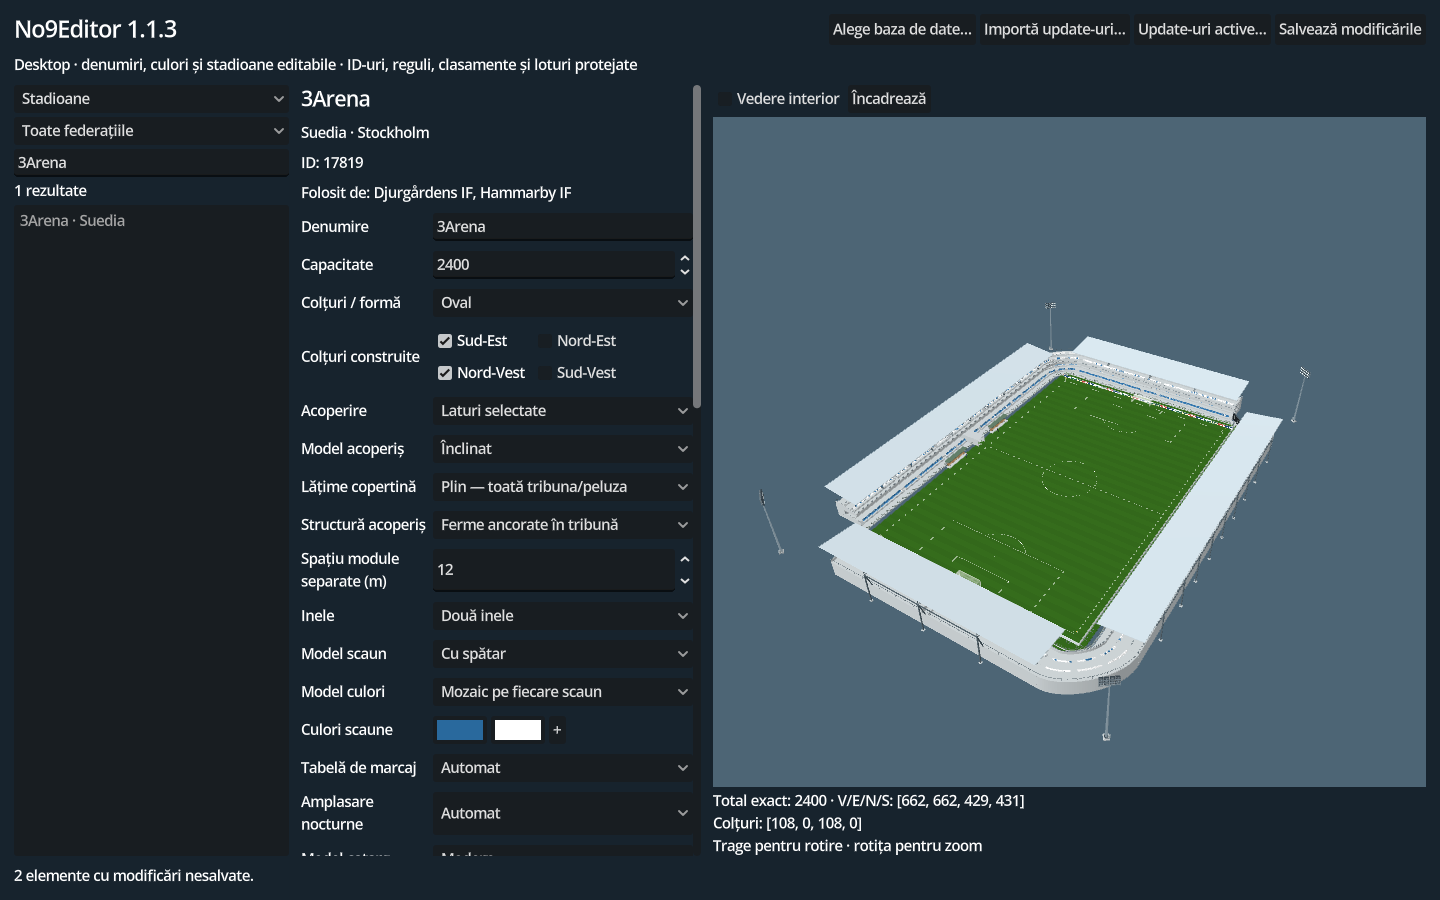
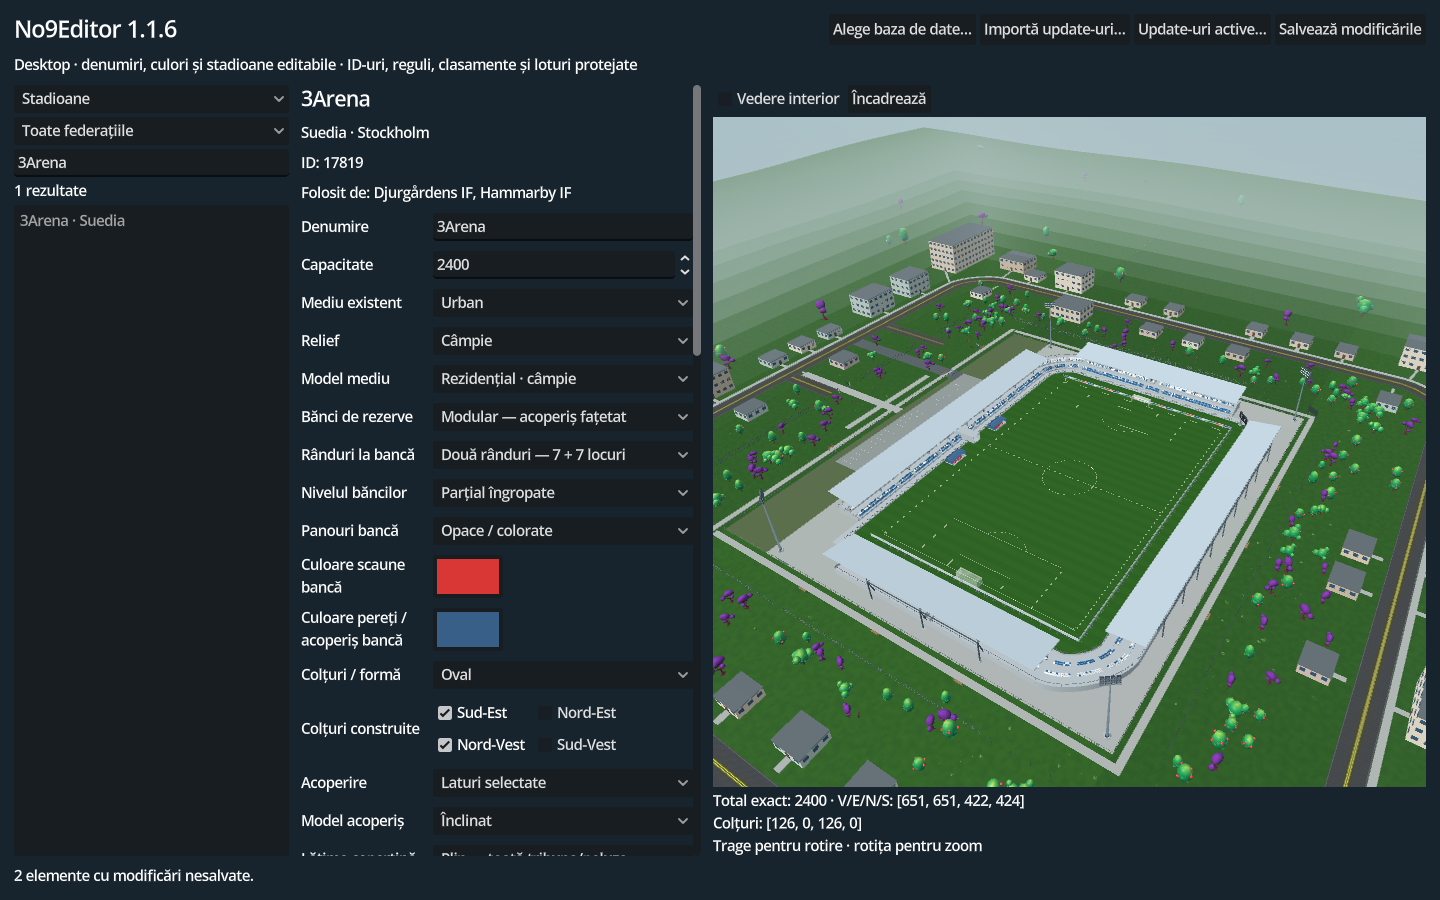
Present updated No9Editor, dugouts and stadium surroundings

diff --git a/README.md b/README.md
@@ -147,23 +147,31 @@ Native 3D demonstrations include **5+1 small-sided play** and **11-versus-11 fri
 
 ## Development update — 23 October 2026
 
-The stadium authoring library brings **91 assets and two assembly examples onto one Godot gallery page**: stands and end stands, connected corners, tier and roof options, floodlights, scoreboards, advertising, standing terraces, steel bleachers and award presentation pieces. The existing rural, urban, plain and mountain match environments remain available.
+The stadium authoring library brings **115 assets and two assembly examples onto one Godot gallery page**: stands and end stands, connected corners, tier and roof options, floodlights, scoreboards, advertising, standing terraces, steel bleachers and award presentation pieces. The existing rural, urban, plain and mountain match environments remain available.
 
 Stadium options include full or central-half canopies, five roof shapes, three support structures, and a full single stand, two independent stands, a centered half-width stand or no stand on each side. Each of the four corners can be enabled separately when both adjoining sides are full-width. There is no roof above an absent corner. Seat palettes use **one, two or three colors** with uniform, individual-seat mosaic, vertical sectors, horizontal sectors, equally spaced bands, ring colors or bottom-to-top fading. The mosaic keeps discrete seat colors at every distance, with height-dependent mixtures based on the supplied photographs; distant chairs use four triangles each rather than color-averaged strips. Floodlights face the pitch. Covered examples can mount lights beneath the roof; scoreboards include central cable suspension with no full roof, roof-edge mounting and closed niches. Advertising can use one or two rows on the pitch perimeter, on rectangular spectator fencing, or both.
 
 <div align="center">
-<img src="media/development-2026-10-23/stadium-gallery.png" width="95%" alt="All 91 stadium authoring assets together on one Godot page">
+<img src="media/development-2026-10-23/stadium-gallery.png" width="95%" alt="All 115 stadium authoring assets together on one Godot page">
 </div>
 
 <p align="center"><img src="media/development-2026-10-23/mosaic-three-colors.png" width="95%" alt="Discrete three-color stadium seat mosaic with continuous height transitions through the curved corner"></p>
 
+The library now includes **24 original team dugouts**: six construction families, one row of ten seats or two rows of seven seats each, at ground level or partially recessed. Recessed variants have access steps, retaining walls and real ground cutouts. The editor offers opaque or tinted transparent shelter panels, with separate seat and wall/roof colors. Finish changes update materials without rebuilding the stadium. All variants remain on the same Godot gallery page.
+
+<p align="center"><img src="media/development-2026-10-23/dugout-curved.png" width="95%" alt="Four curved dugout variants: ground level and recessed, one and two seating rows"></p>
+
+<p align="center"><img src="media/development-2026-10-23/dugout-finishes.png" width="95%" alt="Independent red seats and blue panels: opaque on the left, transparent on the right"></p>
+
 ### No9Editor — a separate desktop application
 
-**No9Editor 1.1.3** is a standalone Windows editor with database search, readable regulations and a live 3D stadium preview. It does not require an installed Godot editor. Names, club short names, colors, stadium capacity and appearance are editable. Rules, ratings, memberships and identifiers are protected.
+**No9Editor 1.1.6** is a standalone Windows editor with database search, readable regulations and a live 3D stadium preview. It does not require an installed Godot editor. Names, club short names, colors, stadium capacity and appearance are editable. Rules, ratings, memberships and identifiers are protected.
 
 Selecting a league shows its name and the **clubs registered in the catalog's current season**. Regulations are presented as paragraphs rather than code. The international competition browser separates **17 club competitions and seven national-team competitions**. The game's Champions League, Europa League and Conference League each use groups of eight, with seven matches per club: one match against each opponent, without a group-stage return leg.
 
-The stadium preview reuses the basic stadium's actual playing surface, markings, corner flags and both goals with nets. It adds configurable stands around the pitch and provides more touchline space for the dugouts and coaches. Changing a venue no longer leaves another stadium on screen after an invalid selection. Incompatible edits restore the last valid configuration and show their reason above the preview. These settings remain stadium authoring and database configuration; they do not automatically replace every existing 3D match scene.
+Existing surroundings are selected by **Urban/Rural**, **Plain/Mountain** and one of **19 environment templates**, adapted to the stadium footprint. The selector uses dropdowns without a reference photograph. Parking stays at its authored baseline, then adds one space per full 100 seats above 500, in elongated rows. Suspended scoreboards scale with stadium capacity.
+
+The stadium preview reuses the basic stadium's actual playing surface, markings, corner flags and both goals with nets. It adds configurable stands around the pitch and provides the touchline space needed for the selected dugouts. Coach figures are hidden in the editor preview. Changing a venue no longer leaves another stadium on screen after an invalid selection. Incompatible edits restore the last valid configuration and show their reason above the preview. These settings remain stadium authoring and database configuration; they do not automatically replace every existing 3D match scene.
 
 Changes are saved as **independent update packs**, separate from the original database. Club and stadium changes from different authors can be combined, enabled, disabled and reordered. Conflicting changes to the same field use the last active pack and are reported. The database now uses numeric entity IDs throughout its records and references, with **23,821 globally reserved numbers**. Confirmed stadiums with the same name, city and country share one identity; training grounds are excluded from the stadium editor.
 
